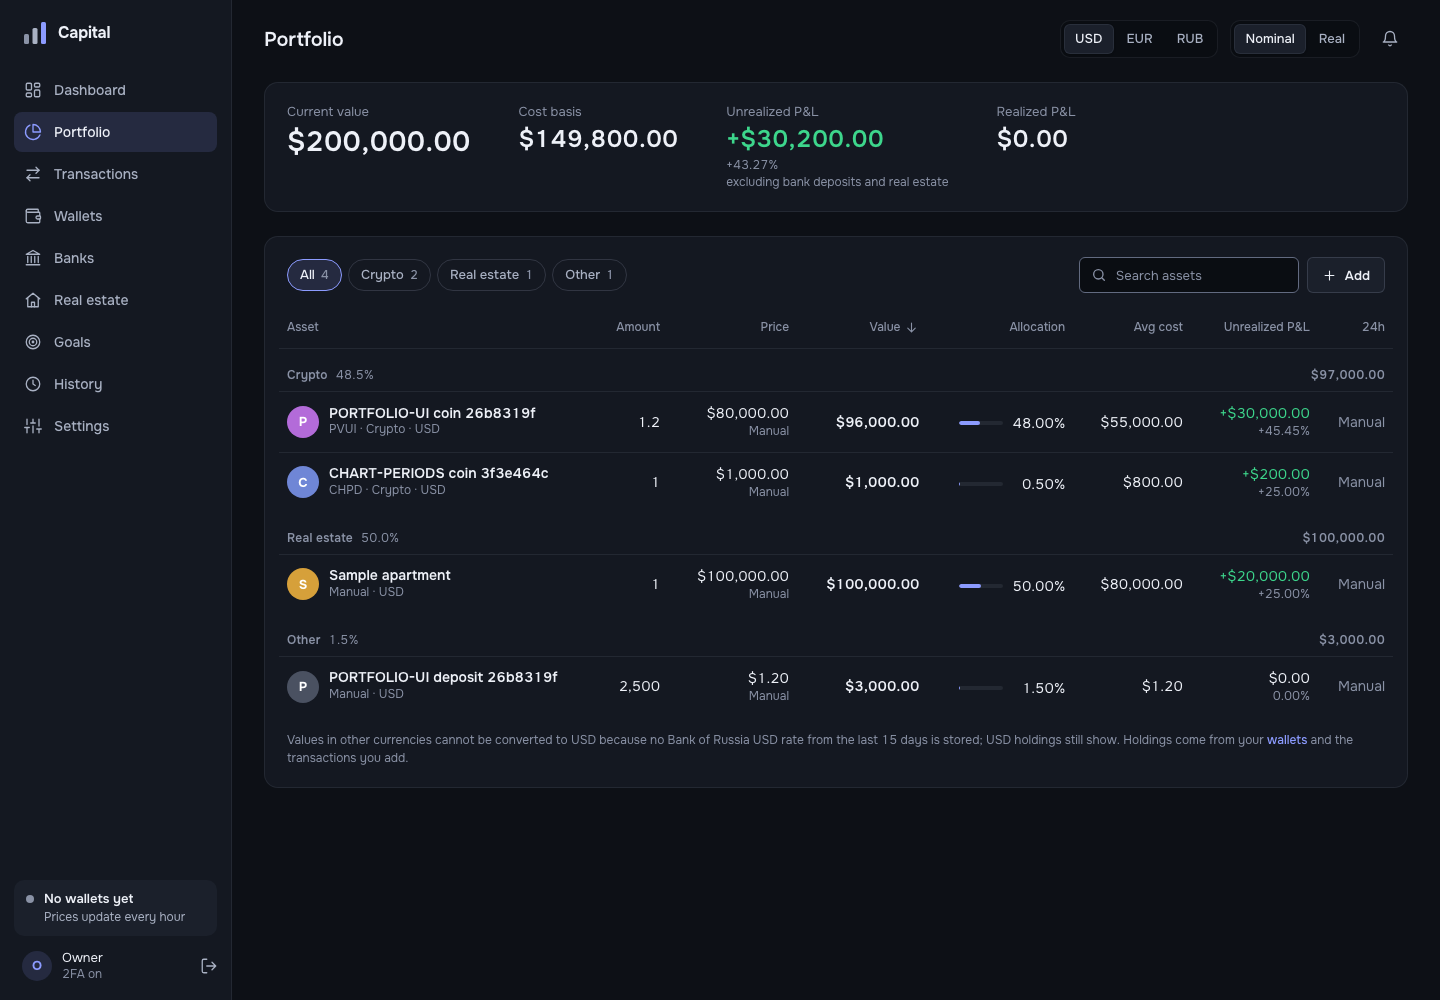
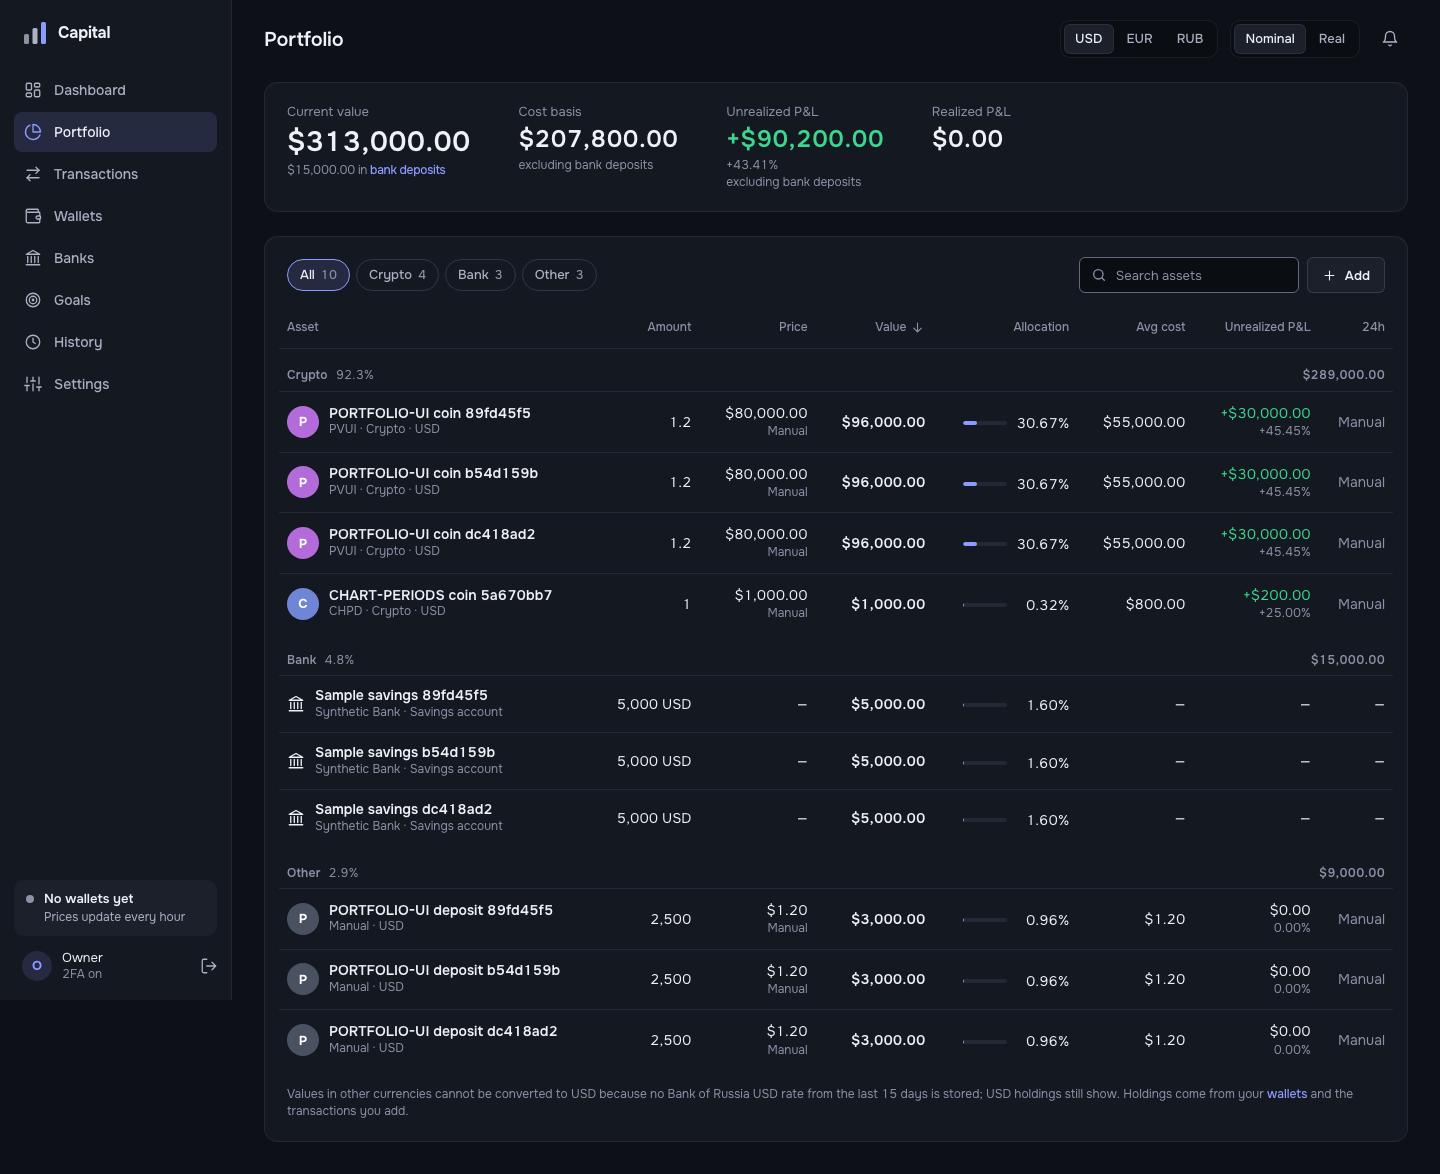
fix(portfolio): show bank allocation and disclose untracked property

diff --git a/frontend/src/features/portfolio/PortfolioPage.test.tsx b/frontend/src/features/portfolio/PortfolioPage.test.tsx
@@ -1,6 +1,6 @@
 import { accountingApi } from '@api/accounting.api';
 import { type AssetHistory, assetHistoryApi } from '@api/asset-history.api';
-import { depositsApi } from '@api/deposits.api';
+import { type Deposit, depositsApi } from '@api/deposits.api';
 import { type FxRatesReport, fxRatesApi } from '@api/fx-rates.api';
 import { type HiddenAsset, hiddenAssetsApi } from '@api/hidden-assets.api';
 import { manualPricesApi, type PriceReceipt } from '@api/manual-prices.api';
@@ -1003,6 +1003,48 @@ describe('Portfolio after inflation', () => {
     setInflationBasis('official');
   });
   const summary = () => screen.getByRole('region', { name: 'Portfolio summary' });
+
+  it.each(['nominal', 'real'] as const)(
+    'PF-PROPERTY-COVERAGE discloses excluded property with unavailable history under %s',
+    async (view) => {
+      setValueView(view);
+      vi.mocked(accountingApi.listAccounts).mockResolvedValue({
+        items: [
+          {
+            id: id(202),
+            name: 'Apartment',
+            kind: null,
+            assetClass: 'property',
+            currentRevision: 0,
+            createdAt: '2025-01-01T00:00:00Z',
+          },
+        ],
+        nextCursor: null,
+      });
+      vi.mocked(portfolioValuationApi.get).mockResolvedValue(
+        withReal({
+          totalValue: null,
+          unavailableAccountCount: 1,
+          accounts: [
+            {
+              accountId: id(202),
+              name: 'Apartment',
+              coverage: 'before-coverage',
+              pricedValue: null,
+              missingPriceCount: 0,
+            },
+          ],
+        }),
+      );
+      renderAt('/portfolio');
+      expect(
+        await screen.findByText('excluding bank deposits and real estate'),
+      ).toBeInTheDocument();
+      expect(summary()).toHaveTextContent(
+        view === 'real' ? 'Real P&L+$20,900.00' : 'Unrealized P&L+$30,000.00',
+      );
+    },
+  );
 
   it('PF-REAL-PROPERTY-COST explains missing whole cost while investment profit remains known', async () => {
     setValueView('real');
@@ -3878,6 +3920,85 @@ it('PORTFOLIO-CLASS-FOLD shows five rows per class with an explicit disclosure a
   expect(screen.getByRole('link', { name: 'Coin 8' })).toBeVisible();
   await userEvent.click(screen.getByRole('button', { name: 'Show less Crypto assets' }));
   expect(screen.queryByRole('link', { name: 'Coin 6' })).toBeNull();
+});
+
+describe('PORTFOLIO-BANK-ALLOCATION', () => {
+  const bank: Deposit = {
+    id: id(999),
+    kind: 'account',
+    name: 'Empty savings',
+    bank: 'Synthetic Bank',
+    currency: 'USD',
+    startDate: '2026-07-01',
+    endDate: null,
+    payout: 'monthly',
+    capitalized: false,
+    dayBasis: 'actual-365',
+    earlyClose: 'keeps-interest',
+    ratePercent: '0',
+    status: 'active',
+    closedOn: null,
+    principal: '0',
+    accrued: '0',
+    due: '0',
+    balance: '0',
+    values: { USD: '0', EUR: '0', RUB: '0' },
+    nextPayout: null,
+    atMaturity: null,
+    lastCheck: null,
+  };
+  it.each([
+    ['USD', '12.50', 0, '12.50%'],
+    ['EUR', '25.00', 0, '25.00%'],
+    ['USD', null, 0, '—'],
+    ['USD', '12.50', 1, '—'],
+  ] as const)(
+    'uses the valuation share in %s (%s, missing interest %s)',
+    async (currency, share, interestMissing, expected) => {
+      vi.mocked(depositsApi.list).mockResolvedValue({
+        asOf: '2026-10-18',
+        items: [
+          {
+            ...bank,
+            balance: '10000',
+            principal: '10000',
+            values: { USD: '10000', EUR: '9000', RUB: null },
+          },
+        ],
+        totals: { USD: '10000', EUR: '9000', RUB: null },
+      });
+      vi.spyOn(portfolioValuationApi, 'get').mockResolvedValue(
+        portfolio([bitcoin], {
+          currency,
+          totalValue: currency === 'USD' ? '80000' : '36000',
+          depositsValue: currency === 'USD' ? '10000' : '9000',
+          interestMissingDepositCount: interestMissing,
+          allocation: {
+            complete: share !== null && interestMissing === 0,
+            byAsset:
+              share === null
+                ? []
+                : [
+                    {
+                      key: `deposit:${bank.id}`,
+                      label: bank.name,
+                      value: currency === 'USD' ? '10000' : '9000',
+                      percent: share,
+                    },
+                  ],
+            byAccount: [],
+            byType: [],
+          },
+        }),
+      );
+      renderAt(`/portfolio?currency=${currency}`);
+      const row = await screen.findByRole('row', { name: /^Empty savings/ });
+      const cell = within(row).getAllByRole('cell')[4];
+      expect(cell).toHaveTextContent(expected);
+      if (share !== null && interestMissing === 0)
+        expect(cell.querySelector('.portfolio-share__bar i')).toHaveStyle({ width: `${share}%` });
+    },
+  );
 });
 
 it('PORTFOLIO-BANK-ZERO lists an existing zero-balance product instead of the empty state', async () => {

diff --git a/frontend/src/features/portfolio/PortfolioPage.tsx b/frontend/src/features/portfolio/PortfolioPage.tsx
@@ -103,10 +103,11 @@ type GroupHead = ReturnType<typeof groupSubtotal> & {
   label: string;
   share: string | null;
 };
+type BankHolding = Deposit & Pick<AssetValuation, 'allocationPercent'>;
 type AssetGroup = {
   head: GroupHead;
   rows: AssetValuation[];
-  deposits: Deposit[];
+  deposits: BankHolding[];
   remaining: number;
   expanded: boolean;
 };
@@ -134,13 +135,24 @@ function MoreInGroup({
   ) : null;
 }
 
+function AllocationShare({ value }: { value: string | null }) {
+  return (
+    <span className="portfolio-share">
+      <span className="portfolio-share__bar" aria-hidden="true">
+        <i style={{ width: `${Math.min(Number(value ?? 0), 100)}%` }} />
+      </span>
+      <span className="portfolio-share__text">{shareText(value)}</span>
+    </span>
+  );
+}
+
 function BankAsset({
   deposit,
   currency,
   asked,
   phone = false,
 }: {
-  deposit: Deposit;
+  deposit: BankHolding;
   currency: AccountingCurrency;
   asked: AccountingCurrency | undefined;
   phone?: boolean;
@@ -181,7 +193,9 @@ function BankAsset({
       </td>
       <td className="ui-num">{DASH}</td>
       <td className="ui-num ui-strong">{money(deposit.values[currency], currency)}</td>
-      <td className="ui-num">{DASH}</td>
+      <td className="ui-num">
+        <AllocationShare value={deposit.allocationPercent} />
+      </td>
       <td className="ui-num">{DASH}</td>
       <td className="ui-num">{DASH}</td>
       <td className="ui-num">{DASH}</td>
@@ -430,11 +444,16 @@ function Summary({
         .filter((text) => text !== false)
         .join(' ');
   const withDeposits = Number(portfolio.depositsValue) > 0;
-  const withProperty = portfolio.assets.some((asset) =>
-    asset.holdings.some(
-      (holding) => classes[holding.accountId] === 'property' && Number(holding.quantity) > 0,
-    ),
-  );
+  const withProperty =
+    portfolio.accounts.some(
+      (account) =>
+        classes[account.accountId] === 'property' && account.coverage === 'before-coverage',
+    ) ||
+    portfolio.assets.some((asset) =>
+      asset.holdings.some(
+        (holding) => classes[holding.accountId] === 'property' && Number(holding.quantity) > 0,
+      ),
+    );
   const profitExclusions = withProperty
     ? 'excluding bank deposits and real estate'
     : withDeposits
@@ -687,18 +706,7 @@ function AssetsTable({
                   </td>
                   <td className="ui-num ui-strong">{money(asset.value, currency)}</td>
                   <td className="ui-num">
-                    <span className="portfolio-share">
-                      <span className="portfolio-share__bar" aria-hidden="true">
-                        <i
-                          style={{
-                            width: `${Math.min(Number(asset.allocationPercent ?? 0), 100)}%`,
-                          }}
-                        />
-                      </span>
-                      <span className="portfolio-share__text">
-                        {shareText(asset.allocationPercent)}
-                      </span>
-                    </span>
+                    <AllocationShare value={asset.allocationPercent} />
                   </td>
                   <td className="ui-num">
                     {asset.averageBuyPrice === null ? DASH : price(asset.averageBuyPrice, currency)}
@@ -977,7 +985,15 @@ export default function PortfolioPage() {
       {
         head,
         rows: open ? rows : rows.slice(0, 5),
-        deposits: open ? banks : banks.slice(0, 5),
+        deposits: (open ? banks : banks.slice(0, 5)).map((deposit) => ({
+          ...deposit,
+          allocationPercent:
+            (portfolio?.interestMissingDepositCount ?? 0) > 0
+              ? null
+              : (portfolio?.allocation.byAsset.find(
+                  (slice) => slice.key === `deposit:${deposit.id}`,
+                )?.percent ?? null),
+        })),
         remaining: open ? 0 : Math.max(0, rows.length + banks.length - 5),
         expanded: open,
       },

diff --git a/tests/e2e/portfolio-valuation.spec.ts b/tests/e2e/portfolio-valuation.spec.ts
@@ -270,6 +270,47 @@ test('PORTFOLIO-UI: whole-portfolio value, cost basis and P&L of one asset acros
     fullPage: true,
   });
 
+  // PORTFOLIO-BANK-ALLOCATION: bank rows use the same backend allocation as other assets.
+  const bankName = `Sample savings ${suffix}`;
+  const bankCreated = await api.request.post('/api/deposits', {
+    headers: { Origin: origin, 'X-CSRF-Token': api.csrfToken },
+    data: {
+      requestId: randomUUID(),
+      name: bankName,
+      bank: 'Synthetic Bank',
+      currency: 'USD',
+      kind: 'account',
+      startDate: '2026-07-01',
+      endDate: null,
+      payout: 'monthly',
+      capitalized: false,
+      dayBasis: 'actual-365',
+      earlyClose: 'keeps-interest',
+      ratePercent: '0',
+      amount: '5000',
+    },
+  });
+  expect(bankCreated.status()).toBe(201);
+  const bank = (await bankCreated.json()) as { id: string };
+  const withBank = (await api.result('GET', '/portfolio', 200)) as {
+    allocation: { byAsset: { key: string; value: string; percent: string | null }[] };
+  };
+  const bankShare = withBank.allocation.byAsset.find((slice) => slice.key === `deposit:${bank.id}`);
+  expect(bankShare?.value).toBe('5000');
+  expect(bankShare?.percent).toMatch(/^\d+\.\d{2}$/);
+  await forgetBrowserReads(page);
+  await page.goto('/portfolio');
+  await search.fill(bankName);
+  const bankCells = main.getByRole('row', { name: new RegExp(`^${bankName}`) }).getByRole('cell');
+  await expect(bankCells.nth(3)).toHaveText('$5,000.00');
+  await expect(bankCells.nth(4)).toHaveText(`${bankShare!.percent}%`);
+  expect(await bankCells.nth(4).locator('.portfolio-share__bar i').evaluate(
+    (element) => (element as HTMLElement).style.width,
+  )).toBe(`${Number(bankShare!.percent)}%`);
+  await search.fill('');
+  await search.blur();
+  await page.screenshot({ path: testInfo.outputPath('portfolio-bank-1440-dark.png'), fullPage: true });
+
   // PHONE-LIST: on a phone the table becomes two-line rows and nothing scrolls sideways.
   await page.setViewportSize({ width: 390, height: 844 });
   await expect(main.getByRole('table')).toHaveCount(0);
@@ -283,6 +324,17 @@ test('PORTFOLIO-UI: whole-portfolio value, cost basis and P&L of one asset acros
     ),
   ).toBeLessThanOrEqual(0);
   await page.screenshot({ path: testInfo.outputPath('portfolio-390-dark.png'), fullPage: true });
+  await page.emulateMedia({ colorScheme: 'light' });
+  await expect(page.locator('html')).toHaveAttribute('data-theme', 'light');
+  await search.fill('');
+  await search.blur();
+  await page.setViewportSize({
+    width: 390,
+    height: await page.evaluate(() => document.documentElement.scrollHeight + 100),
+  });
+  await page.screenshot({ path: testInfo.outputPath('portfolio-bank-390-light.png'), fullPage: true });
+  await page.setViewportSize({ width: 390, height: 844 });
+  await search.fill(suffix);
   await phoneRow.click();
   await expect(page).toHaveURL(`${origin}/portfolio/${created.id}`);
   expect(
